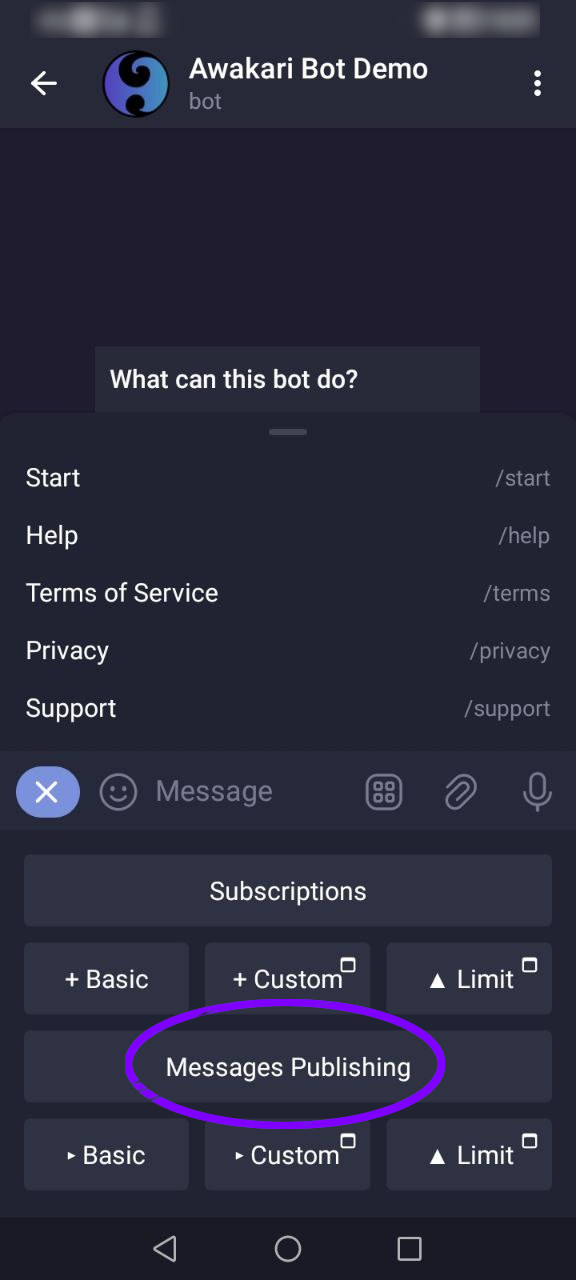
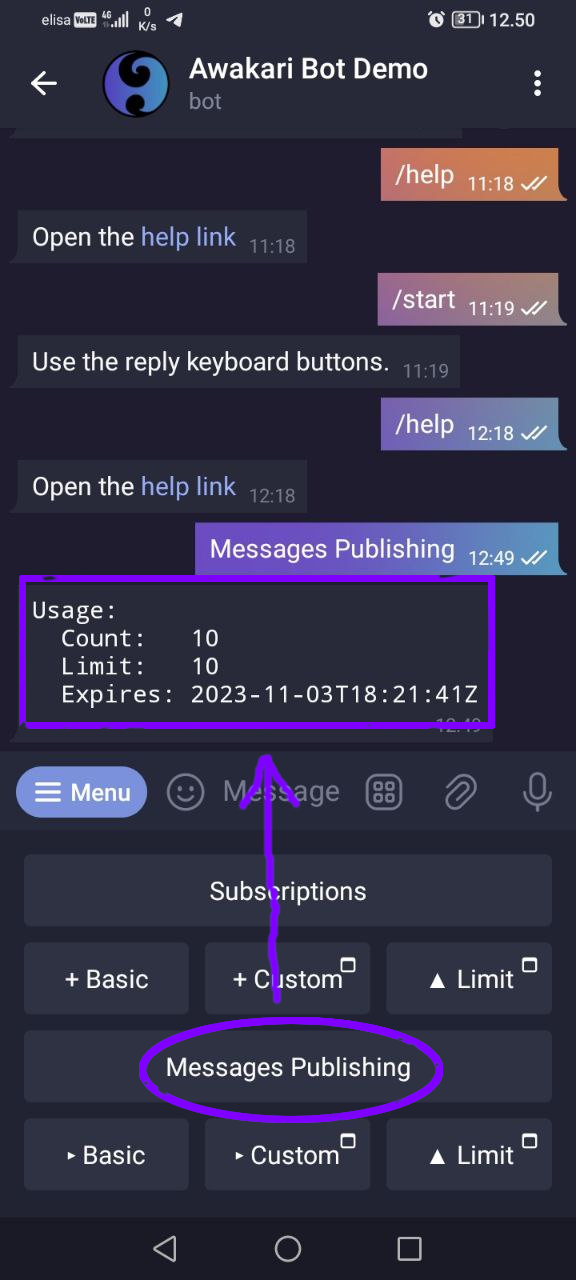
save

diff --git a/docs/help.html b/docs/help.html
@@ -7,20 +7,20 @@
             <a href="tos.html">Terms of Service</a>
             and tap the "START" button.
         </p>
-        <img src="start.jpg" alt="start" width="288" height="640"/>
+        <img src="start.jpg" alt="start" />
         <p>
             Awakari Bot: manage subscriptions and usage limits, publish messages.
         </p>
-        <img src="overview.jpg" alt="start" width="288" height="640"/>
+        <img src="overview.jpg" alt="start" />
 
         <h1>2. Subscriptions</h1>
 
         <p>
             The button "Subscription" is for displaying the subscriptions' usage.
-            First, it displays the usage statistics and current limit.
+            First, it displays the usage statistics, allowed subscriptions count limit and limit expiration time.
             It's followed by the user's subscriptions list.
         </p>
-        <img src="subs-list.jpg"  width="288" height="640">
+        <img src="subs-list.jpg"  >
         <p>
             Note the special hints after a subscription description:
             <table>
@@ -31,55 +31,49 @@
         </p>
 
         <h2>2.1. Details</h2>
-        <img src="sub-details.jpg"  width="288" height="640">
+        <img src="sub-details.jpg"  >
 
         <h3>2.1.1. Link Chat</h3>
         <p>Create a new target group to link the subscription to it.</p>
-        <img src="sub-new-group.jpg"  width="288" height="640">
+        <img src="sub-new-group.jpg"  >
         <p>
             Give a name to the new group to find it later.
             Ideally, the group name should match the subscription description.
         </p>
-        <img src="sub-new-group-name.jpg"  width="288" height="640">
+        <img src="sub-new-group-name.jpg"  >
         <p>Tap "Link Chat" button under a selected subscription details.</p>
-        <img src="sub-link-chat.jpg"  width="288" height="640">
+        <img src="sub-link-chat.jpg"  >
         <p>Select the target group from your groups list.</p>
-        <img src="sub-new-group-select.jpg"  width="288" height="640">
+        <img src="sub-new-group-select.jpg"  >
         <p>Tap "Add bot as Member" button in the appeared dialog.</p>
-        <img src="sub-link-chat-add-bot.jpg"  width="288" height="640">
+        <img src="sub-link-chat-add-bot.jpg"  >
         <p>
             Sometimes Telegram shows an error when adding the bot to a new group.
             In this case, tap the back button and select the group again.
             The error then disappears.
         </p>
-        <img src="sub-link-chat-add-bot-error.jpg"  width="288" height="640">
+        <img src="sub-link-chat-add-bot-error.jpg"  >
         <p>
             After the subscription is linked to the chat, the bot starts to deliver the matching
             messages into the group.
         </p>
-        <img src="sub-link-chat-done.jpg"  width="288" height="640">
+        <img src="sub-link-chat-done.jpg"  >
         <p>The bot will remind when subscription expires sooner than in 1 week.</p>
-        <img src="sub-group-expires-soon.jpg"  width="288" height="640">
+        <img src="sub-group-expires-soon.jpg"  >
         <p>The bot will send a warning message if subscription is expired.</p>
-        <img src="sub-group-expred.jpg"  width="288" height="640">
+        <img src="sub-group-expred.jpg"  >
 
         <h3>2.1.2. ▲ Extend</h3>
-        <table>
-            <tr>
-                <td><img src="sub-extend.jpg"  width="288" height="640"></td>
-                <td>
-                    2.1.2.1. Tap the "▲ Extend" button in the subscription details.
-                </td>
-            </tr>
-            <tr>
-                <td><img src="sub-extend-next.jpg"  width="288" height="640"></td>
-                <td>
-                    2.1.2.2. The bot will request the number of days to add. Reply with a number in the range of 10-365.
-                    After this the bot will request a payment to extend the subscription.
-                    A successful payment will complete the operation.
-                </td>
-            </tr>
-        </table>
+        <p>
+            2.1.2.1. Tap the "▲ Extend" button in the subscription details.
+        </p>
+        <p><img src="sub-extend.jpg"  ></p>
+        <p>
+            2.1.2.2. The bot will request the number of days to add. Reply with a number in the range of 10-365.
+            After this the bot will request a payment to extend the subscription.
+            A successful payment will complete the operation.
+        </p>
+        <p><img src="sub-extend-next.jpg"  ></p>
 
         <h2>2.2. Create</h2>
 
@@ -89,66 +83,82 @@
 
         <h3>2.2.1. + Basic</h3>
         <p>2.2.1.1. Tap the "+ Basic" reply keyboard button under "Subscriptions".</p>
-        <img src="sub-create-basic.jpg"  width="288" height="640">
+        <img src="sub-create-basic.jpg"  >
         <p>
             2.2.1.2. Reply with subscription name (actually a description without spaces) followed by space and
             space separated list of keywords.
         </p>
-        <img src="sub-create-basic-reply.jpg"  width="288" height="640">
+        <img src="sub-create-basic-reply.jpg"  >
         <p>
             2.2.1.3. After subscription is created, the bot offers to link it to a chat to receive the matching messages.
         </p>
-        <img src="sub-create-basic-result.jpg"  width="288" height="640">
+        <img src="sub-create-basic-result.jpg"  >
 
         <h3>2.2.2. + Custom</h3>
         <p>
             2.2.2.1. Tap the "+ Custom" reply keyboard button under "Subscriptions".
         </p>
-        <p><img src="sub-create-custom.jpg"  width="288" height="640"></p>
+        <p><img src="sub-create-custom.jpg"  ></p>
         <p>
             2.2.2.2. The form to define advanced matching conditions appears.
             Available condition types are "Group", "Text" and "Number".
             Once done, tap the "Submit" button below to create the subscription.
         </p>
-        <p><img src="sub-new-custom.jpg"  width="288" height="640"></p>
+        <p><img src="sub-new-custom.jpg"  ></p>
 
         <h2>2.3. ▲ Limit</h2>
         <p>
             2.3.1. Tap the "▲ Limit" reply keyboard button under "Subscriptions".
         </p>
-        <p><img src="sub-limits.jpg"  width="288" height="640"></p>
+        <p><img src="sub-limits.jpg"  ></p>
         <p>
             2.3.2. The form to define the subscription count limit appears.
             Once done, tap the "Submit" button below to apply new limits.
             This requires a payment.
         </p>
-        <p><img src="sub-limits-form.jpg"  width="288" height="640"></p>
+        <p><img src="sub-limits-form.jpg"  ></p>
 
         <h1>3. Messages Publishing</h1>
 
         <h2>3.1. Usage</h2>
+        <p>Tap the "Message Publishing" reply keyboard button.</p>
+        <img src="msg-usage.jpg">
+        <p>This displays the current message publishing statistics, limit and limit expiration time.</p>
 
         <h2>3.2. ▸ Basic</h2>
+        <p>3.2.1. Tap the "+ Basic" reply keyboard button under "Message Publishing".</p>
+        <p><img src="msg-new-basic.jpg"  ></p>
+        <p>3.2.2. Reply with the message text.</p>
+        <p><img src="msg-new-basic-reply.jpg"  ></p>
         <p>
-            3.2.1. Tap the "+ Basic" reply keyboard button under "Messages".
+            3.2.3. If the daily message publishing limit is reached,
+            it's required to pay per additional message publication.
         </p>
-        <p><img src="msg-new-basic.jpg"  width="288" height="640"></p>
-        <p>
-            3.2.2. Reply with the message text.
-        </p>
-        <p><img src="msg-new-basic-reply.jpg"  width="288" height="640"></p>
-        <p>
-            3.2.3. If the daily message publishing limit is reached, it's required to pay per additional message publication.
-        </p>
-        <p><img src="msg-new-basic-pay.jpg"  width="288" height="640"></p>
-        <p>
-            3.2.4. A successful message publication looks like this.
-        </p>
-        <p><img src="mag-new-basic-sent.jpg" width="288" height="640"></p>
+        <p><img src="msg-new-basic-pay.jpg" ></p>
+        <p>3.2.4. A successful message publication looks like this.</p>
+        <p><img src="mag-new-basic-sent.jpg" ></p>
 
         <h2>3.3. ▸ Custom</h2>
+        <p>3.3.1. Tap the "▸ Custom" reply keyboard button under "Message Publishing".</p>
+        <img src="msg-new-custom.jpg" >
+        <p>3.3.2. Fill the message text and append custom message attributes.</p>
+        <img src="msg-new-custom-form.jpg" >
+        <p>
+            3.3.3. Once ready, tap the "Submit" button.
+            This will require a payment before publishing if a daily message publishing limit is reached.
+        </p>
 
         <h2>3.4. ▲ Limit</h2>
+        <p>
+            3.4.1. Tap the "▲ Limit" reply keyboard button under "Messages Publishing".
+        </p>
+        <p><img src="msg-limits.jpg"  ></p>
+        <p>
+            3.4.2. The form to define the daily message publishing limit appears.
+            Once done, tap the "Submit" button below to apply new limits.
+            This requires a payment.
+        </p>
+        <p><img src="msg-limits-form.jpg"  ></p>
 
     </body>
 </html>
